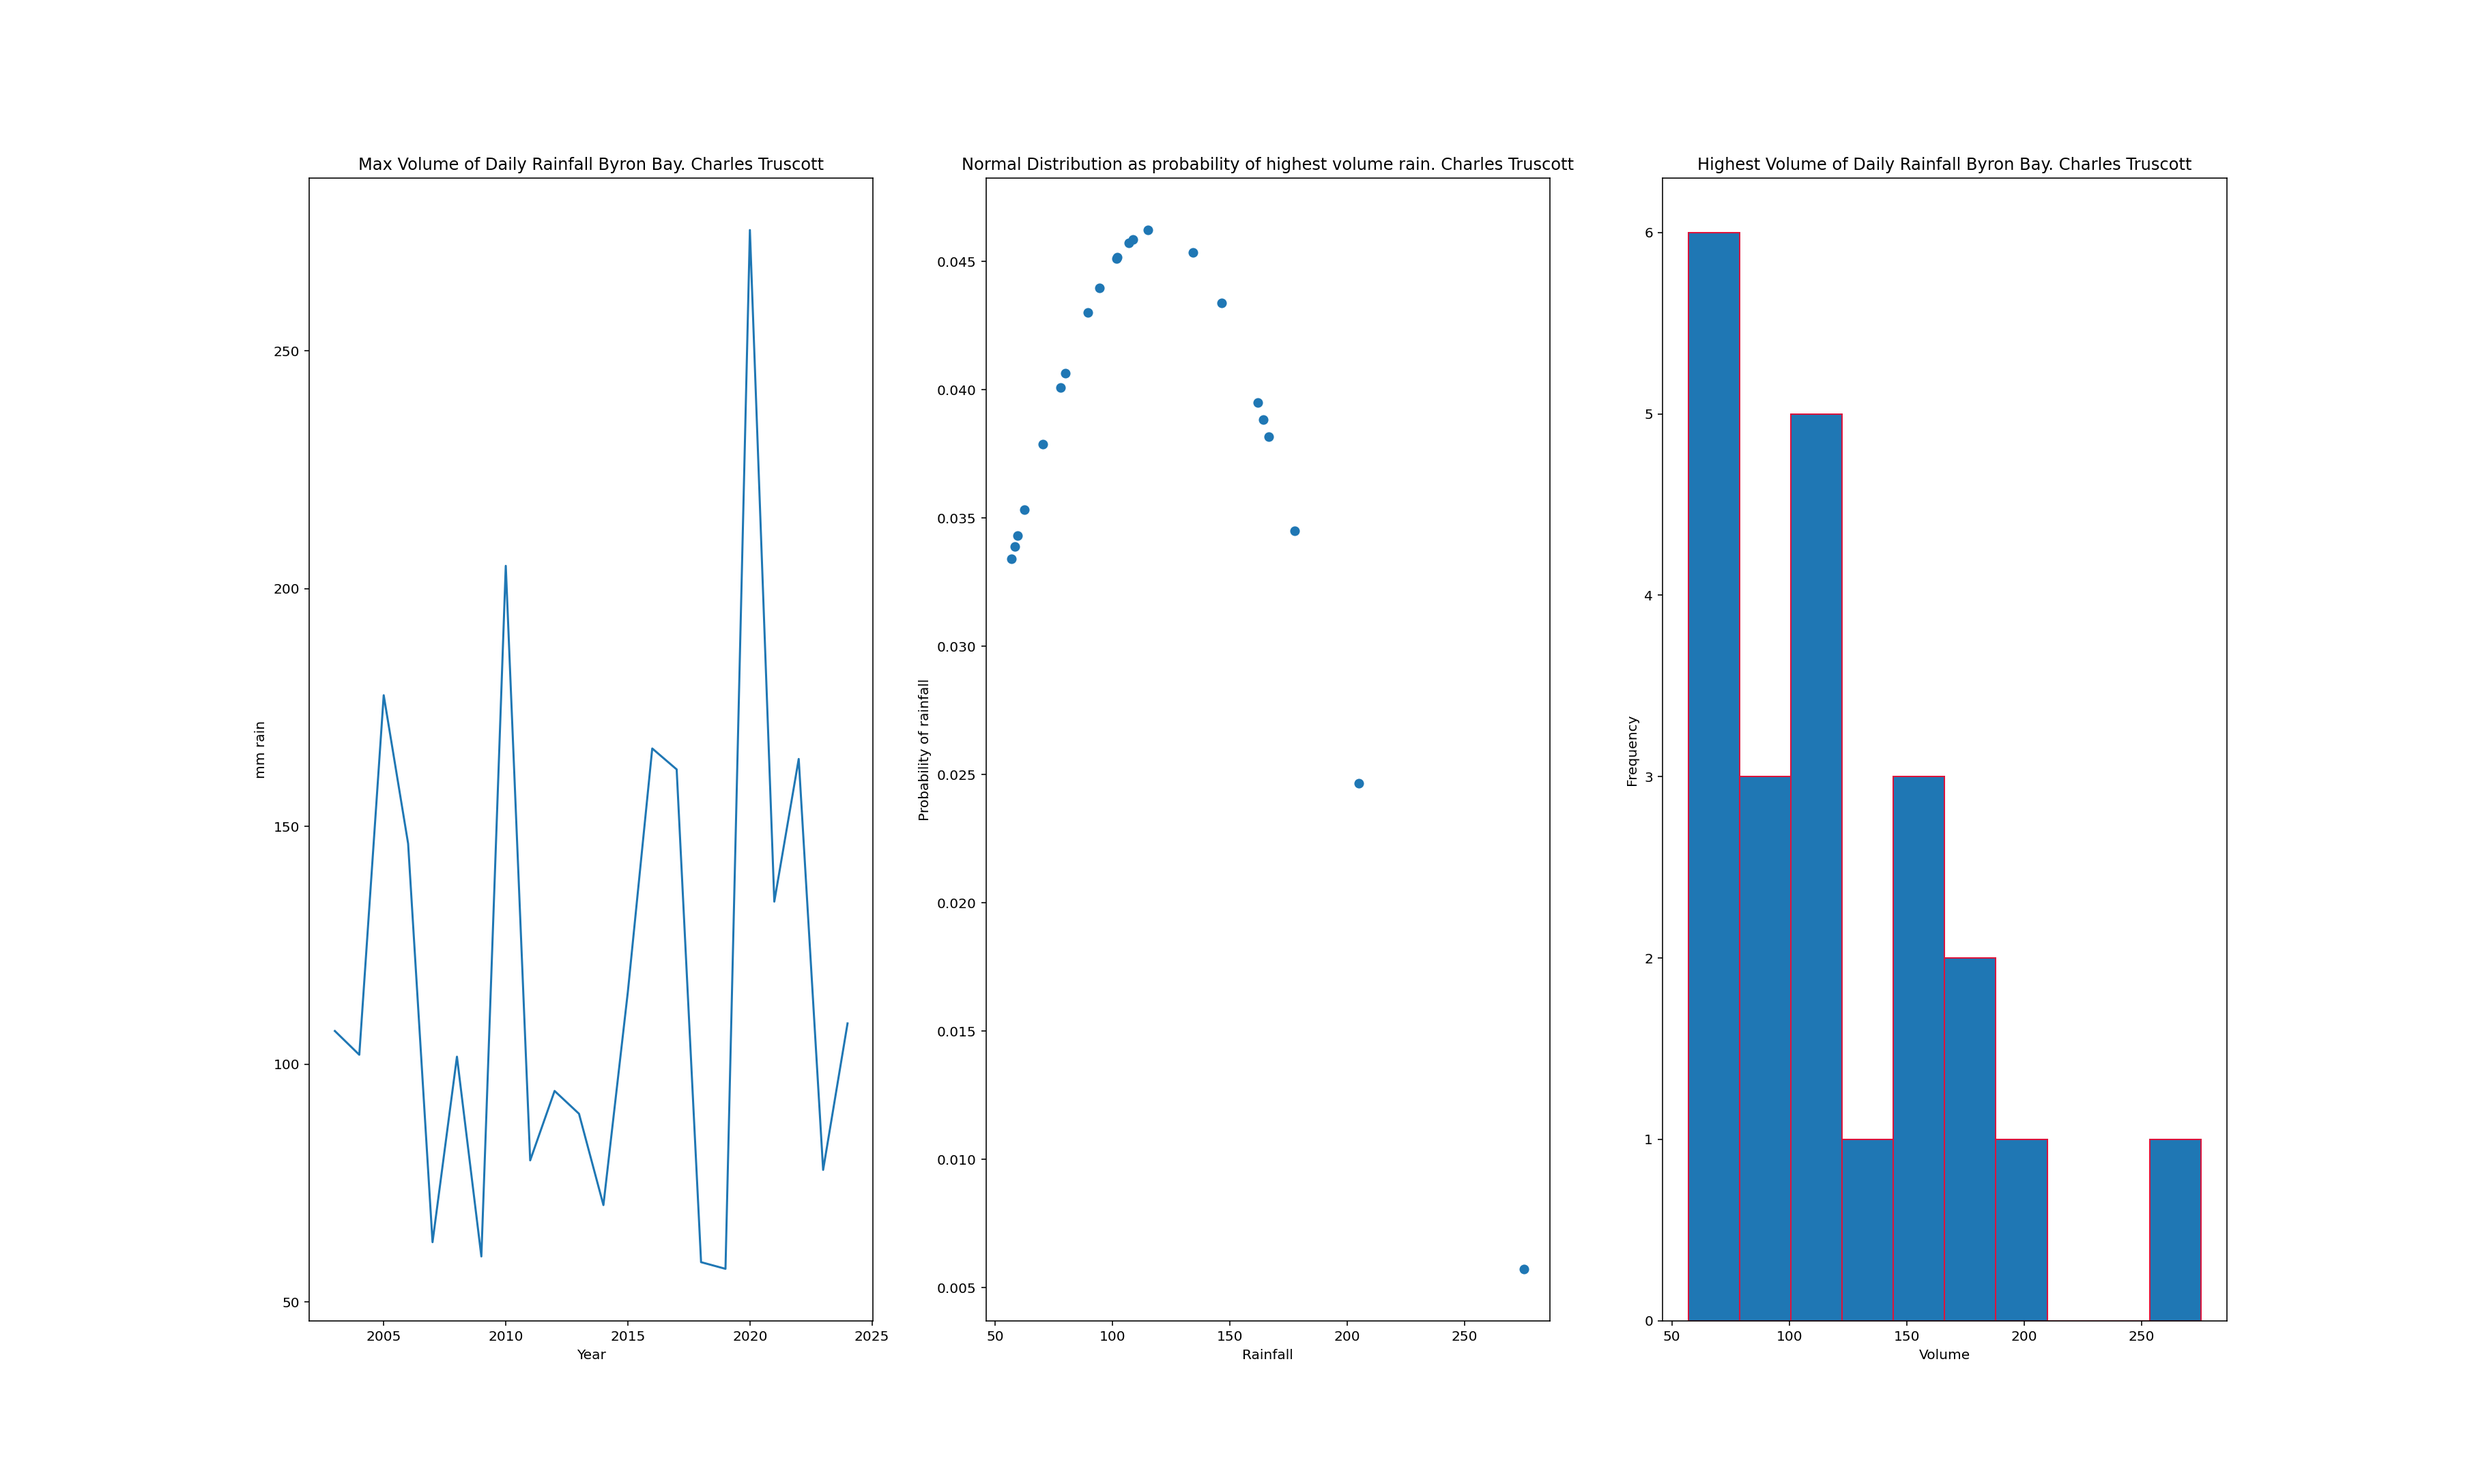
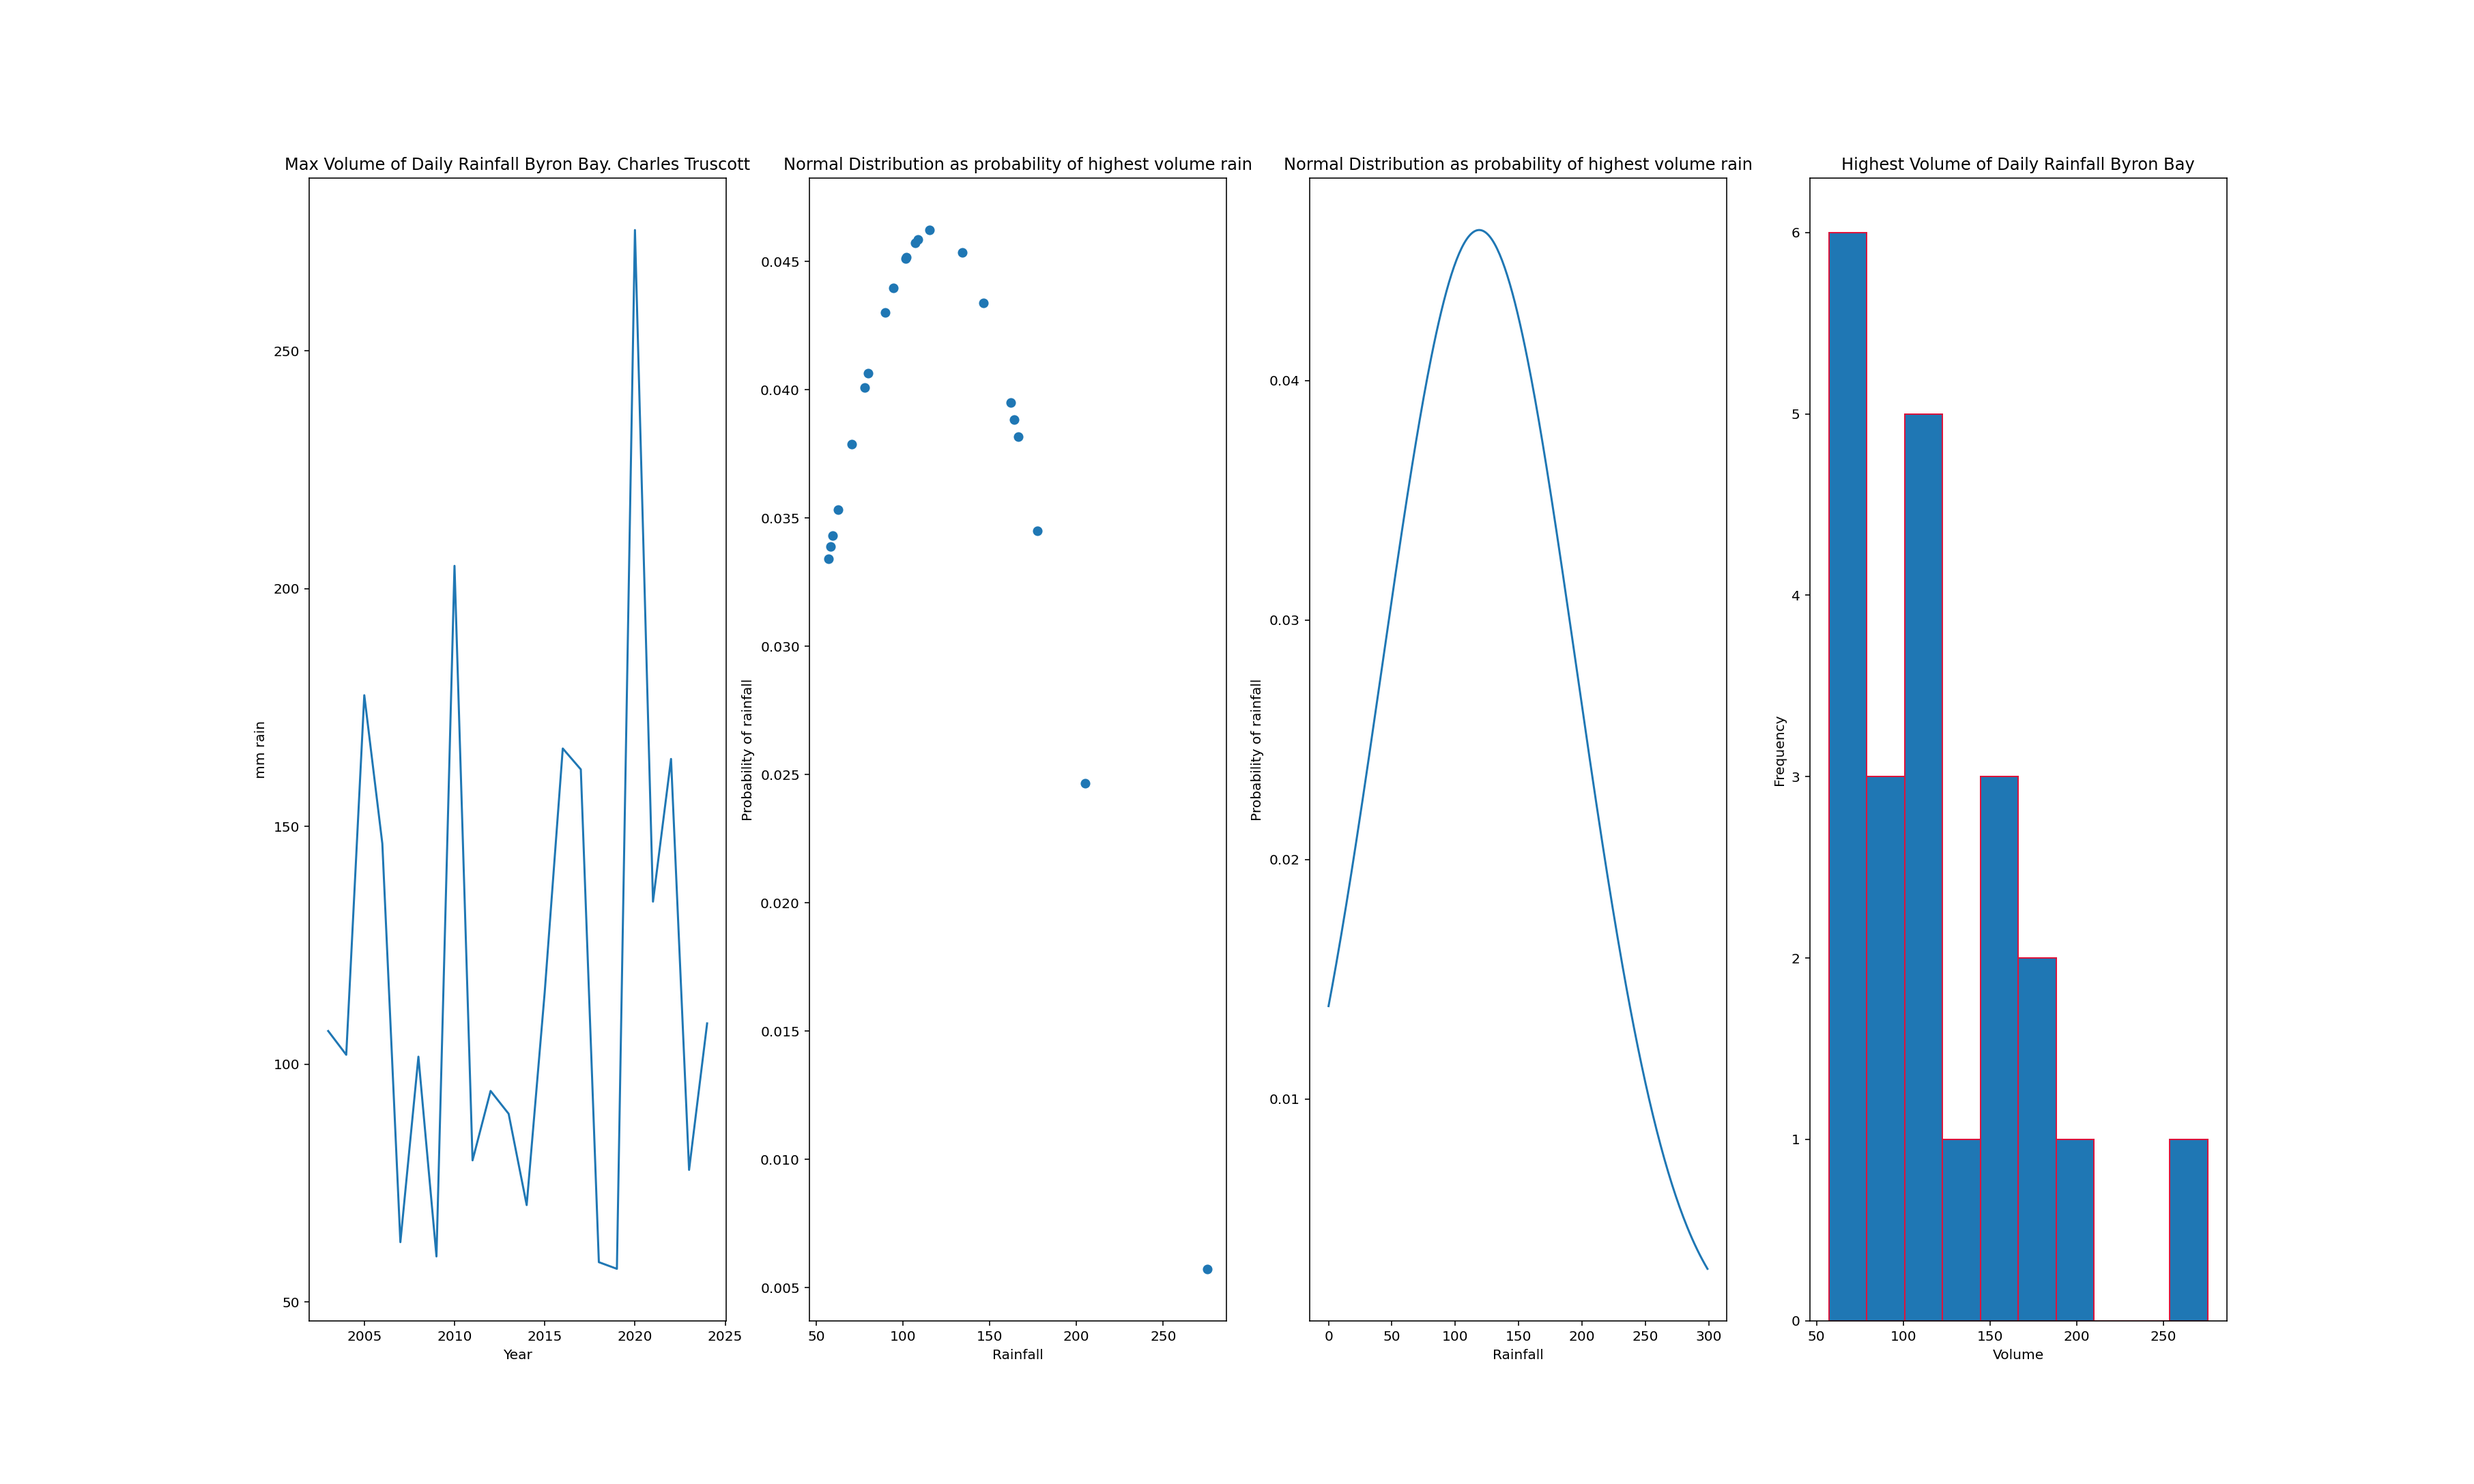
Add files via upload

diff --git a/byronweather_ctruscottwatters.py b/byronweather_ctruscottwatters.py
@@ -52,32 +52,40 @@ def Charles():
 #	    	 x2.append(n)
 #	    	 y2.append(y_plot)
 #	    plt.plot(x2, y2)
-	ax1 = plt.subplot(1, 3, 1)
+	ax1 = plt.subplot(1, 4, 1)
 	plt.plot(df['Year'], df['Max Daily Rain'])
 	rain = df['Max Daily Rain']
 	mean = np.mean(rain)
 	stddev = np.std(rain)
 	print(np.mean(rain), np.std(rain))
+	plt.title("Charles Truscott Watters. Byron Bay Rainfall")
 	ax1.title.set_text("Max Volume of Daily Rainfall Byron Bay. Charles Truscott")
 	ax1.set_xlabel("Year")
 	ax1.set_ylabel("mm rain")
 #	plt.hist(df['Max Daily Rain'])
 #	x1, y1 = Poisson(mean, np.e, rain)
-	ax2 = plt.subplot(1, 3, 2)
+	ax2 = plt.subplot(1, 4, 2)
 	x2, y2 = Gaussian(mean, stddev, rain)
-	ax2.title.set_text("Normal Distribution as probability of highest volume rain. Charles Truscott")
+	ax2.title.set_text("Normal Distribution as probability of highest volume rain")
 	ax2.set_xlabel("Rainfall")
 	ax2.set_ylabel('Probability of rainfall')
+	plt.scatter(x2, y2)
+	ax3 = plt.subplot(1, 4, 3)
+	x3, y3 = Gaussian(mean, stddev, [rf for rf in range(0, 300)])
+	ax3.title.set_text("Normal Distribution as probability of highest volume rain")
+	ax3.set_xlabel("Rainfall")
+	ax3.set_ylabel('Probability of rainfall')
+	plt.plot(x3, y3)
 #	plt.plot(x1, y1)
 #	plt.hist(y2)
-#	print(n)
-	plt.scatter(x2, y2)
-	ax3 = plt.subplot(1, 3, 3)
+	ax4 = plt.subplot(1, 4, 4)
 	plt.hist(df['Max Daily Rain'], edgecolor='crimson')
-	ax3.title.set_text("Highest Volume of Daily Rainfall Byron Bay. Charles Truscott")
-	ax3.set_xlabel("Volume")
-	ax3.set_ylabel("Frequency")
-#	    plt.plot(x_plot, y_plot)
+	ax4.title.set_text("Highest Volume of Daily Rainfall Byron Bay")
+	ax4.set_xlabel("Volume")
+	ax4.set_ylabel("Frequency")
+
+#	plt.plot(x, y_predicted)
+
 #	plt.show()
 #	plt.title("Charles Truscott Watters")
 	plt.savefig('all.png')
